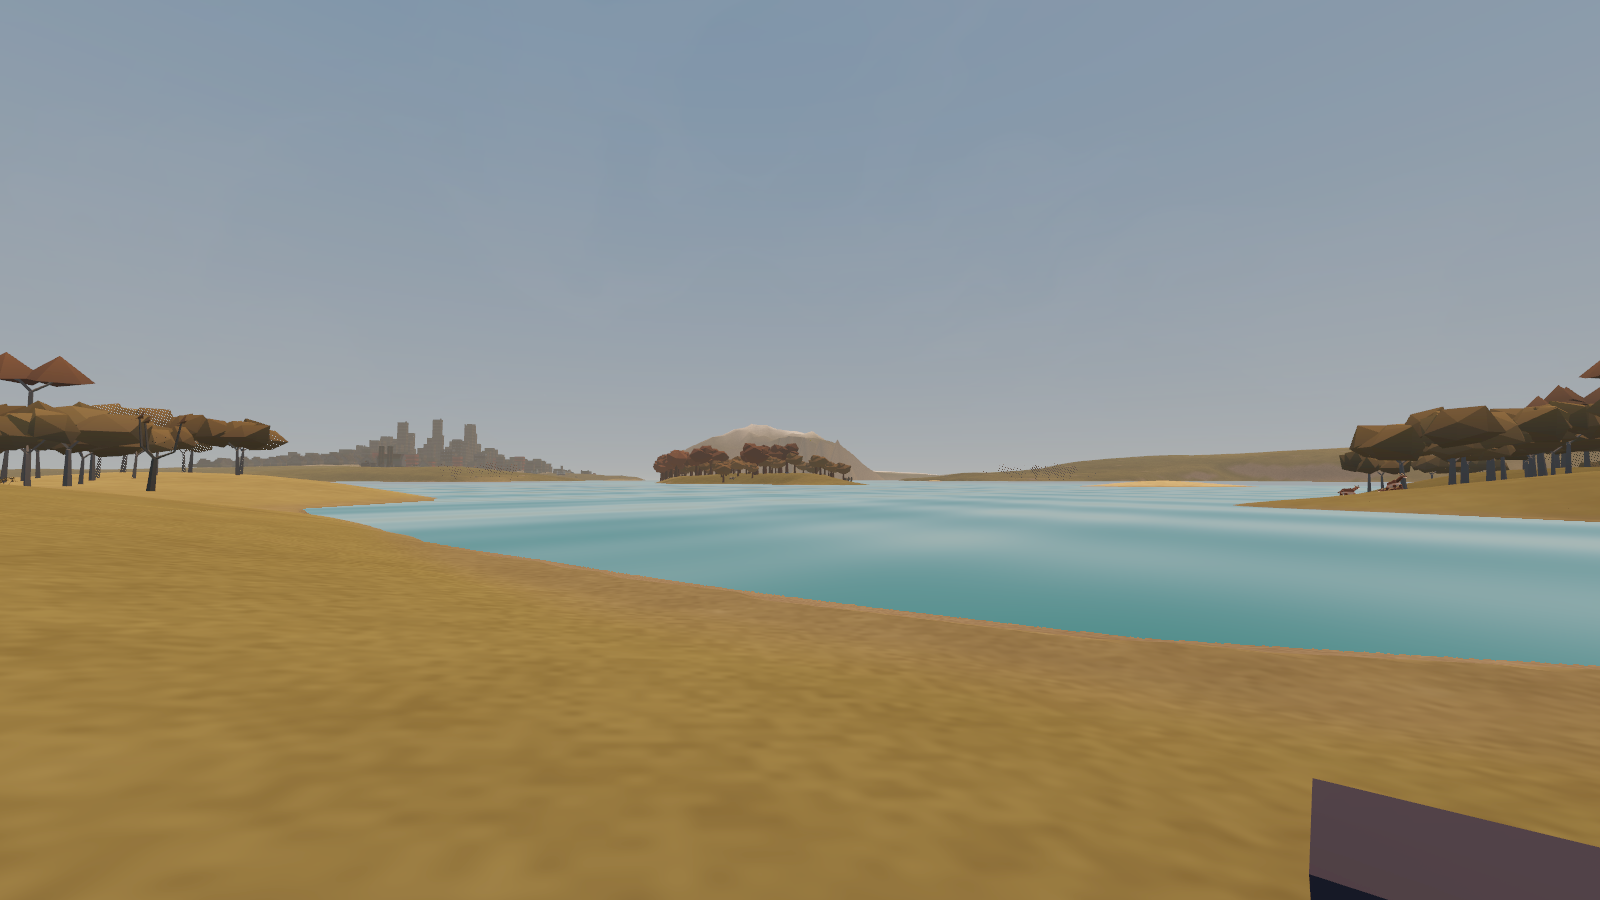
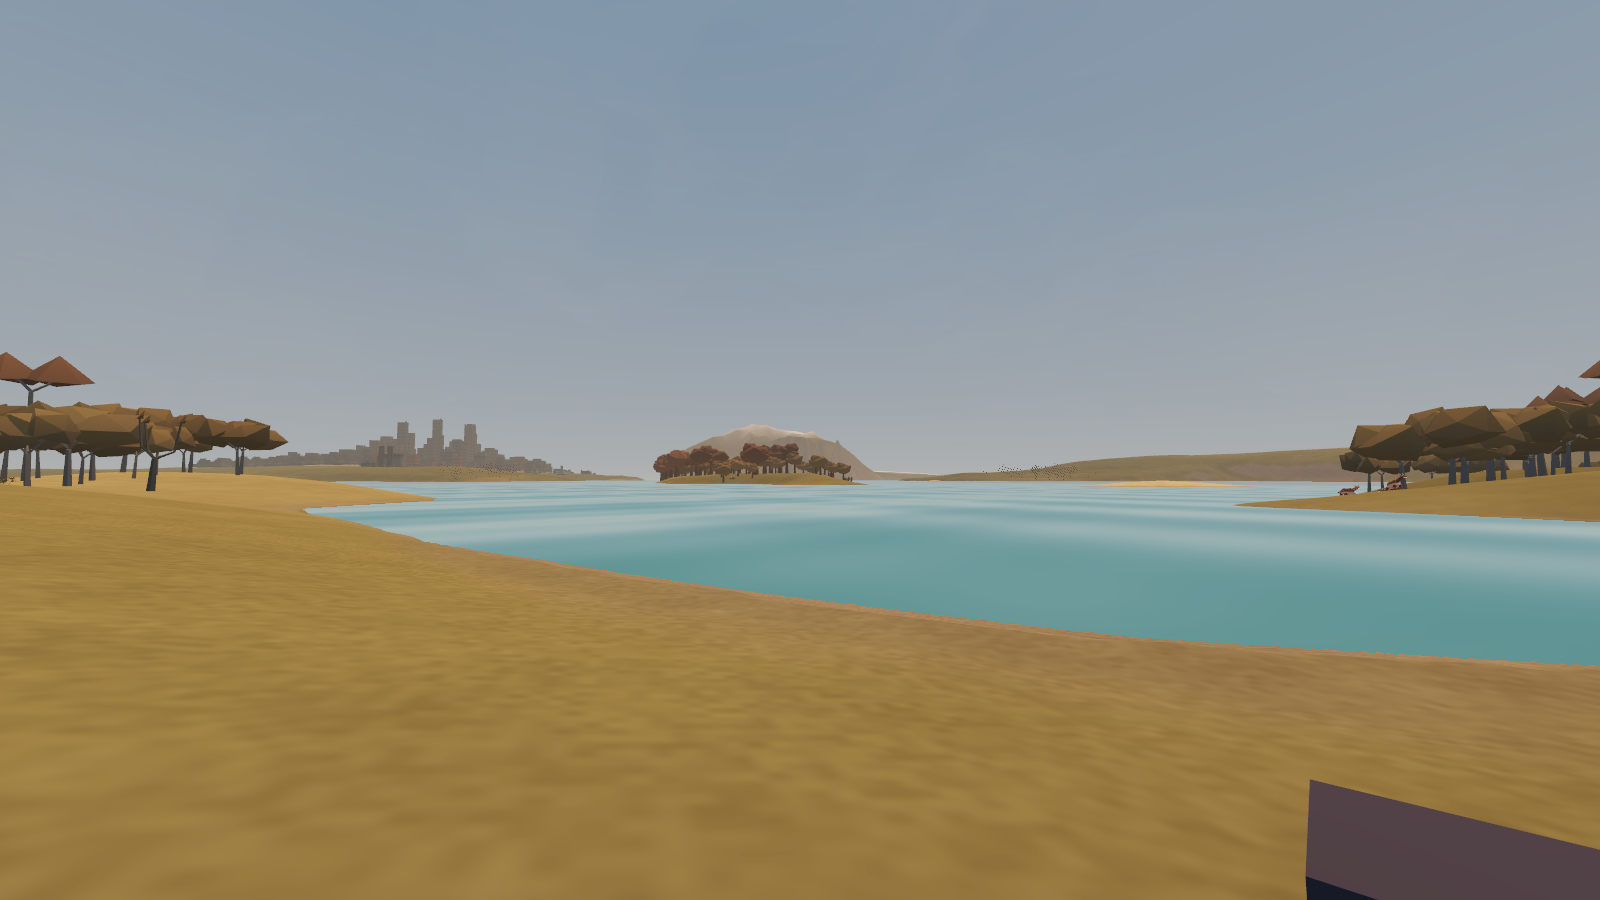
Flora: a plant swaps drawings or goes whole, never half dissolved; FloraSwapTest walks the camera through each hand-over and fails on canopy holes
Each plant's hand-over band is now 2 cm (it swaps in a frame); a wood still thins gradually as
each plant has its own reach (the thinning share and small growth spread wider). Only the distant
drawings fade, at the end of the reach.

diff --git a/prototypes/slice/tests/FloraSwapTest.cs b/prototypes/slice/tests/FloraSwapTest.cs
@@ -1,0 +1,197 @@
+using System;
+using System.Collections.Generic;
+using System.Diagnostics;
+using System.Linq;
+using GalHack.Plants;
+using Godot;
+using Planets.Gen;
+using Planets.Look;
+using PlanetSurface.Terrain;
+using Slice.Game;
+
+namespace Slice.Tests;
+
+/// <summary>
+/// A tree is whole at every distance: on a fresh world, one of its large species is set up in the sky
+/// with each pair of its drawings that hand over (near to far, far to distant) and the camera walks
+/// through the hand-over a quarter metre at a time. At each step the frame is compared with each
+/// drawing drawn whole alone: the pair must draw all of one or all of the other (a canopy pixel of
+/// it left empty is a hole). Any step with more than 3% holes in both fails (a stray pixel along a frond a pixel wide is not a hole; a tree half dissolved leaves far more). Windowed (it reads the frames).
+///
+/// Run: Godot --path prototypes/slice res://tests/FloraSwapTest.tscn
+/// </summary>
+public partial class FloraSwapTest : Node
+{
+    Game.Game _game;
+    IEnumerator<int> _run;
+    int _failures, _passes;
+    readonly Stopwatch _clock = Stopwatch.StartNew();
+
+    public override void _Ready()
+    {
+        new System.Threading.Thread(() =>
+        {
+            System.Threading.Thread.Sleep(TimeSpan.FromMinutes(6));
+            Console.Error.WriteLine("FAIL  the run took over 6 minutes: watchdog");
+            System.Environment.Exit(1);
+        }) { IsBackground = true }.Start();
+        _run = Scenario().GetEnumerator();
+    }
+
+    public override void _Process(double delta)
+    {
+        bool more;
+        try { more = _run.MoveNext(); }
+        catch (Exception e)
+        {
+            Check(false, $"scenario threw: {e}");
+            more = false;
+        }
+        if (more) return;
+        GD.Print(_failures == 0 ? $"ALL PASSED ({_passes} checks in {_clock.Elapsed.TotalSeconds:F1} s)" : $"{_failures} CHECK(S) FAILED ({_passes} passed)");
+        SetProcess(false);
+        Wildlife.Shutdown.Quit(this, _failures == 0 ? 0 : 1);
+    }
+
+    void Check(bool ok, string what)
+    {
+        if (ok) _passes++;
+        else _failures++;
+        GD.Print($"  {(ok ? "ok   " : "FAIL ")} {what}");
+    }
+
+    MultiMeshInstance3D Drawing(Mesh mesh, Basis basis, Vector3 at, int layer, ShaderMaterial material, Color tint)
+    {
+        var mm = new MultiMesh { TransformFormat = MultiMesh.TransformFormatEnum.Transform3D, UseCustomData = true, Mesh = mesh, InstanceCount = 1 };
+        mm.SetInstanceTransform(0, new Transform3D(basis, at));
+        mm.SetInstanceCustomData(0, tint);
+        var m = new MultiMeshInstance3D { Multimesh = mm, MaterialOverride = material, CastShadow = GeometryInstance3D.ShadowCastingSetting.Off };
+        m.SetInstanceShaderParameter("flora_layer", (float)layer);
+        AddChild(m);
+        return m;
+    }
+
+    IEnumerable<int> Scenario()
+    {
+        if (DisplayServer.GetName() == "headless")
+        {
+            Check(false, "a headless run draws no frames: run it in a window");
+            yield break;
+        }
+        _game = new Game.Game { Interactive = false, SkipIntro = true, World = WorldChoice.FromArgs(OS.GetCmdlineUserArgs(), WorldChoice.Fresh("temperate")) };
+        AddChild(_game);
+        var drive = new Driver(_game);
+        foreach (int x in drive.UntilPlaying(240)) yield return x;
+        _game.Zone.Weather.Bridge.Calm = true;
+        _game.Zone.Weather.Sim.Snap(Weather.Model.WeatherKind.Clear);
+        _game.Zone.Sky.TimeOfDay = 0.45;
+        _game.Visor.Visible = false;
+        var streamer = _game.Zone.Streamer;
+        var book = _game.Zone.Planet.Flora.Book;
+        var plants = book.Plants.Where(p => p.Tree).ToList();
+        if (plants.Count == 0)
+        {
+            Check(true, "(no trees on this world)");
+            yield break;
+        }
+        var rng = new Random();
+        GD.Print($"-- flora hand-overs on {_game.World} --");
+        foreach (Plant plant in plants.OrderBy(_ => rng.Next()).Take(2))
+        {
+            Flora kind = Enum.GetValues<Flora>().FirstOrDefault(k => PlanetSurface.Terrain.PlanetFlora.FamilyOf(k) == plant.Family);
+            foreach (var (name, a, b, reach) in new[] { ("near to far", 0, 1, DetailReach.Near), ("far to distant", 1, 3, DetailReach.Far) })
+                foreach (int x in Sweep(streamer, plant, kind, name, a, b, reach)) yield return x;
+        }
+        _game.FixedCamera = null;
+    }
+
+    IEnumerable<int> Sweep(TerrainStreamer streamer, Plant plant, Flora kind, string name, int layerA, int layerB, float reach)
+    {
+        Vector3 feet = _game.Survivor.WorldFeet;
+        // In the sky, well clear of the ground: the sky behind it.
+        var root = new Vector3(feet.X + 37.3f, feet.Y + 700f, feet.Z + 11.9f);
+        float s = MathF.Sin(root.X * 12.9898f + root.Z * 78.233f) * 43758.5453f;
+        float own = 0.9f + 0.1f * (s - MathF.Floor(s));
+        float at = reach * own;
+        Basis basis = Basis.Identity;
+        Mesh Of(int layer) => layer == 0 ? streamer.PlantMesh(plant.Index, 0) : layer == 1 ? streamer.PlantMesh(plant.Index, -1) : streamer.KindMesh(kind);
+        Basis BasisOf(int layer) => layer == 3 ? FarBuilder.DistantBasis(kind, plant, basis) : basis;
+        var tint = new Color(0.3f, 0.5f, 0.25f, 0f);
+        ShaderMaterial mat = streamer.FloraMaterial;
+        var pairA = Drawing(Of(layerA), BasisOf(layerA), root, layerA, mat, tint);
+        var pairB = Drawing(Of(layerB), BasisOf(layerB), root, layerB, mat, tint);
+        var wholeA = Drawing(Of(layerA), BasisOf(layerA), root, 2, mat, tint);
+        var wholeB = Drawing(Of(layerB), BasisOf(layerB), root, 2, mat, tint);
+        Vector3 aim = root + Vector3.Up * plant.Height * 0.6f;
+        var way = new Vector3(0.6f, 0f, 0.8f);
+
+        float worst = 0f, worstAt = 0f;
+        int steps = 0;
+        for (float d = at - 6f; d <= at + 6f; d += 0.25f)
+        {
+            // From a little below, so the sky stands behind the whole tree (the water and ground beyond shimmer).
+            Vector3 eye = aim - way * d - Vector3.Up * d * 0.12f;
+            _game.FixedCamera = new Transform3D(Basis.LookingAt(aim - eye, Vector3.Up), eye);
+            Image Frame(bool pair, bool a, bool b)
+            {
+                pairA.Visible = pairB.Visible = pair;
+                wholeA.Visible = a;
+                wholeB.Visible = b;
+                return null;
+            }
+            Image bg = null, both = null, onlyA = null, onlyB = null;
+            foreach (var (pair, a, b, k) in new[] { (false, false, false, 0), (true, false, false, 1), (false, true, false, 2), (false, false, true, 3) })
+            {
+                Frame(pair, a, b);
+                for (int i = 0; i < 3; i++) yield return 0;
+                Image img = GetViewport().GetTexture().GetImage();
+                if (k == 0) bg = img; else if (k == 1) both = img; else if (k == 2) onlyA = img; else onlyB = img;
+            }
+            // Whole: the pair draws all of one drawing or all of the other, not part of each.
+            int inA = 0, inB = 0, missA = 0, missB = 0;
+            int w = bg.GetWidth(), h = bg.GetHeight();
+            bool Drawn(Image img, int x, int y)
+            {
+                Color c = img.GetPixel(x, y), o = bg.GetPixel(x, y);
+                return MathF.Abs(c.R - o.R) + MathF.Abs(c.G - o.G) + MathF.Abs(c.B - o.B) > 0.06f;
+            }
+            // Only round the tree: the sky's clouds drift between frames.
+            Camera3D cam = _game.Camera;
+            float spread = MathF.Max(plant.CrownRadius, plant.Height * 0.3f) * DetailReach.DistantGrow * 1.6f;
+            Vector2 lo = new(float.MaxValue, float.MaxValue), hi = new(float.MinValue, float.MinValue);
+            Vector3 side = new Vector3(0.8f, 0f, -0.6f) * spread, low = Vector3.Down, high = Vector3.Up * plant.Height * 1.6f;
+            foreach (Vector3 corner in new[] { root - side + low, root + side + low, root - side + high, root + side + high })
+            {
+                Vector2 p = cam.UnprojectPosition(corner);
+                lo = lo.Min(p);
+                hi = hi.Max(p);
+            }
+            int x0 = Math.Clamp((int)lo.X - 4, 0, w - 1), x1 = Math.Clamp((int)hi.X + 4, 0, w - 1), y0 = Math.Clamp((int)lo.Y - 4, 0, h - 1), y1 = Math.Clamp((int)hi.Y + 4, 0, h - 1);
+            for (int y = y0; y <= y1; y++)
+            for (int x = x0; x <= x1; x++)
+            {
+                bool drawn = Drawn(both, x, y);
+                if (Drawn(onlyA, x, y)) { inA++; if (!drawn) missA++; }
+                if (Drawn(onlyB, x, y)) { inB++; if (!drawn) missB++; }
+            }
+            int canopy = inA + inB;
+            float share = MathF.Min(inA > 0 ? missA / (float)inA : 1f, inB > 0 ? missB / (float)inB : 1f);
+            if (share > worst)
+            {
+                worst = share;
+                worstAt = d;
+                // The worst step's frames, for a look (--frames=DIR).
+                string dir = OS.GetCmdlineUserArgs().FirstOrDefault(a => a.StartsWith("--frames="))?[9..];
+                if (dir != null)
+                    foreach (var (img, tag) in new[] { (bg, "bg"), (both, "pair"), (onlyA, "a"), (onlyB, "b") })
+                        img.SavePng($"{dir}/{plant.Index}-{layerA}{layerB}-{tag}.png");
+            }
+            steps++;
+        }
+        pairA.QueueFree();
+        pairB.QueueFree();
+        wholeA.QueueFree();
+        wholeB.QueueFree();
+        Check(worst <= 0.03f, $"{plant.Family} {plant.Form}, {name} at {at:F0} m: {steps} steps a quarter metre apart, at most {worst:P1} of the canopy left as holes (at {worstAt:F1} m)");
+    }
+}

diff --git a/prototypes/planet-surface/src/Terrain/DetailReach.cs b/prototypes/planet-surface/src/Terrain/DetailReach.cs
@@ -51,6 +51,14 @@ public static class DetailReach
     /// <summary>Places' full structures reach this multiple of their own radii: at most twice, as they carry colliders, people and creatures.</summary>
     public static float StandScale => MathF.Min(Scale, 2f);
 
+    /// <summary>
+    /// How far a plant's drawings take to hand over or go, m, short of the detail distance: next to
+    /// nothing, so a plant is always whole, one drawing or the other, never half shown (it swaps in a frame). A wood still
+    /// thins gradually, as each plant has its own reach (<see cref="TerrainStreamer.FloraShows"/>).
+    /// Only the distant drawings fade out at the end, over <see cref="DistantBand"/>.
+    /// </summary>
+    public const float Swap = 0.02f;
+
     static DetailReach() => Set(Default);
 
     /// <summary>Sets the detail distance, m (kept between the default and the horizon).</summary>
@@ -64,13 +72,13 @@ public static class DetailReach
         Lod0Radius = k >= 2f ? 2 : 1;
         Lod1Radius = Math.Clamp((int)MathF.Round(3f * k), 3, 12);
         Near = 120f * Lod0Radius;
-        NearBand = 26f * Lod0Radius;
+        NearBand = Swap;
         Small = 200f * MathF.Min(k, 2f);
-        SmallBand = Small * 0.3f;
+        SmallBand = Swap;
         Far = 370f * Lod1Radius / 3f;
-        FarBand = Far * 60f / 370f;
+        FarBand = Swap;
         Thin = Far * 200f / 370f;
-        ThinBand = Thin * 0.2f;
+        ThinBand = Swap;
         Distant = d;
         DistantBand = d * 0.15f;
         // What stands on the land is built as far out as the far rings show its pads, corners included.

diff --git a/prototypes/planet-surface/src/Terrain/TerrainStreamer.Pop.cs b/prototypes/planet-surface/src/Terrain/TerrainStreamer.Pop.cs
@@ -127,16 +127,12 @@ public partial class TerrainStreamer
     public static float FloraShows(int layer, bool thin, float away, float x, float z)
     {
         float s = MathF.Sin(x * 12.9898f + z * 78.233f) * 43758.5453f;
-        float r = s - MathF.Floor(s), own = 0.9f + 0.1f * r;
+        float r = s - MathF.Floor(s), own = 0.9f + 0.1f * r, ownThin = 0.75f + 0.25f * r, ownSmall = 0.7f + 0.3f * r;
         float near = Shown(DetailReach.Near * own, DetailReach.NearBand, away);
-        if (layer == NearLayer) return near;
-        if (layer == SmallLayer) return Shown(DetailReach.Small * (thin ? 0.6f : 1f) * own, DetailReach.SmallBand * (thin ? 0.6f : 1f), away);
-        if (layer == FarLayer)
-        {
-            float most = thin ? Shown(DetailReach.Thin * own, DetailReach.ThinBand, away) : Shown(DetailReach.Far * own, DetailReach.FarBand, away);
-            return MathF.Max(0f, most - near);
-        }
         float far = Shown(DetailReach.Far * own, DetailReach.FarBand, away);
+        if (layer == NearLayer) return near;
+        if (layer == SmallLayer) return Shown(DetailReach.Small * (thin ? 0.6f : 1f) * ownSmall, DetailReach.SmallBand, away);
+        if (layer == FarLayer) return MathF.Max(0f, (thin ? Shown(DetailReach.Thin * ownThin, DetailReach.ThinBand, away) : far) - near);
         return MathF.Max(0f, Shown(DetailReach.Distant * (0.95f + 0.05f * r), DetailReach.DistantBand, away) - far);
     }
 

diff --git a/prototypes/planet-surface/src/Terrain/TerrainStreamer.cs b/prototypes/planet-surface/src/Terrain/TerrainStreamer.cs
@@ -286,6 +286,10 @@ public partial class TerrainStreamer : Node3D
         StartCover();
     }
 
+    /// <summary>Flora's material (tests draw plants with it), and a kind's own low mesh (a distant drawing's).</summary>
+    public ShaderMaterial FloraMaterial => _floraMaterial;
+    public Mesh KindMesh(Flora kind) => _floraMeshes != null && _floraMeshes.TryGetValue(kind, out Mesh m) ? m : null;
+
     /// <summary>The mesh of one species' variant (-1: its far one), or null for what the world's herbarium doesn't hold.</summary>
     public Mesh PlantMesh(int plant, int variant) =>
         plant < 0 || plant >= _plantNear.Length ? null : variant < 0 ? _plantFar[plant] : _plantNear[plant][variant];

diff --git a/prototypes/planet-surface/src/Terrain/FarBuilder.cs b/prototypes/planet-surface/src/Terrain/FarBuilder.cs
@@ -958,7 +958,7 @@ public static class FarBuilder
     public static IReadOnlyDictionary<Flora, (float Height, float Radius)> KindSize;
 
     /// <summary>A distant drawing's turn and size: the kind's mesh made the plant's height and crown, a little bigger (<see cref="DetailReach.DistantGrow"/>).</summary>
-    static Basis DistantBasis(Flora kind, Plant plant, Basis basis)
+    public static Basis DistantBasis(Flora kind, Plant plant, Basis basis)
     {
         Basis grown = basis.Scaled(Vector3.One * DetailReach.DistantGrow);
         if (plant == null || KindSize == null || !KindSize.TryGetValue(kind, out var k) || k.Height <= 0f || k.Radius <= 0f) return grown;
